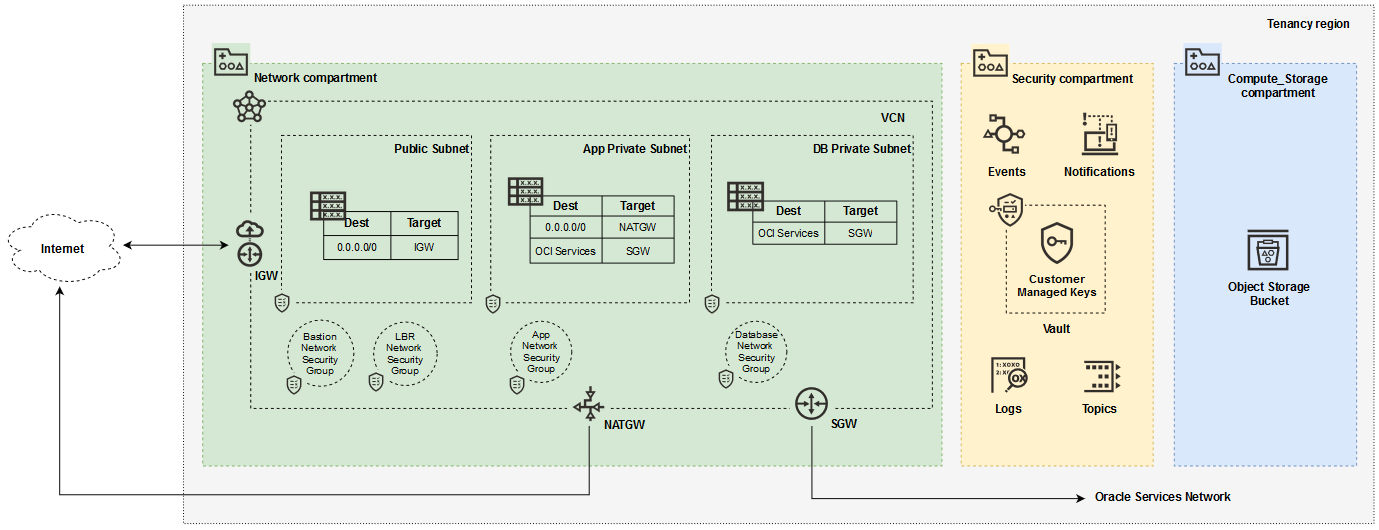
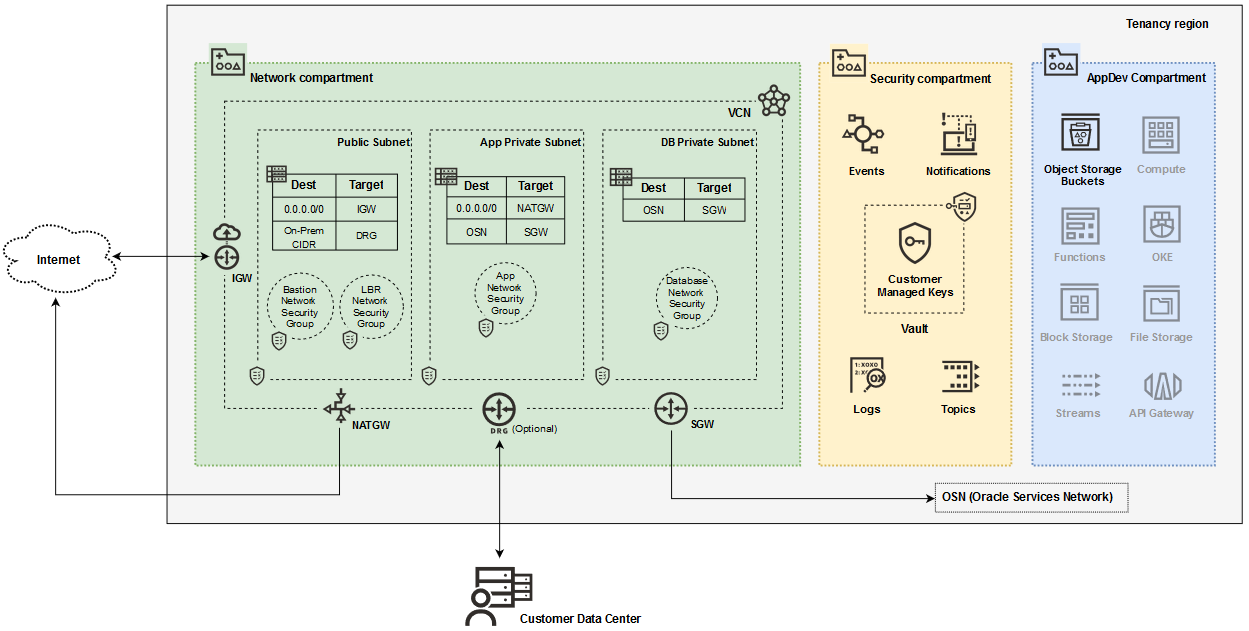
Updated README and arch diagram

diff --git a/README.md b/README.md
@@ -13,18 +13,17 @@ The Landing Zone template deploys a standard three-tier web architecture using a
  ## Architecture 
  The Landing Zone template creates a three-tier web architecture in a single VCN. The three tiers are divided into:
  
- - One (1) Public Subnet (for load balancers and the OCI bastion host service)
+ - One (1) Public Subnet (for load balancers and bastion servers)
  - Two (2) Private Subnets (one for the application tier/servers and one for the database tier)
  
- The Landing Zone template also creates five (5) compartments in the tenancy:
+ The Landing Zone template also creates four (4) compartments in the tenancy:
  
  - A network compartment: A compartment for all networking resources.
  - A security compartment: A compartment for all logging, key management, and notifications resources and services. 
- - A compute and storage compartment: A compartment for all compute and storage (including object storage) resources
+ - An application development compartment: A compartment for application development related services, including compute, storage, functions, streams, Kubernetes and API Gateway. 
  - A database compartment: A compartment for a database resources and services. 
- - An application development compartment: A compartment for application services, such as functions and API Gateway. 
 
-The network diagram below does not show the database and application development compartments, because no resources are initially provisioned into these compartments. 
+The network diagram below does not show the database compartment, because no resources are initially provisioned into that compartment. 
 
 ![Architecture](images/Architecture.png)
 
@@ -113,15 +112,12 @@ With variable values provided, execute:
 	terraform apply plan.out
 
 ## How to Execute the Code Using OCI Resource Manager
-OCI Resource Manager (ORM) has slightly different requirements than Terraform CLI. First and foremost, there is no need to provide tenancy connection and user authentication input variables for the OCI provider, as Resource Manager, being an OCI service, uses the service connection information itself.
-The only required input variable for the OCI provider is the **region**. Fortunately, the provided Terraform code, by not having defaults to tenancy_ocid, user_ocid, fingerprint, private_key_path and private_key_password is already adequate and no changes are required.
-
 There are a few different ways of running Terraform code in ORM. Here we describe two of them: creating an ORM stack by uploading a folder to ORM or creating an ORM stack by integrating with GitLab. A stack is the ORM term to refer to a Terraform configuration.
 
 For OCI Resource Manager details, please see https://docs.cloud.oracle.com/en-us/iaas/Content/ResourceManager/Concepts/resourcemanager.htm.
 
 ### Stack from Folder
-Create a folder in your local computer (name it say 'cis-oci') and paste there the config and modules folders from this repository. 
+Create a folder in your local computer (name it say 'cis-oci') and paste there the config and modules folders from this project. 
 
 Using OCI Console, navigate to Resource Manager service page and create a stack based on a folder. In the **Create Stack** page:
 1. Select **My Configuration** option as the origin of the Terraform configuration.
@@ -141,15 +137,13 @@ Once the stack is created, navigate to the stack page and use the **Terraform Ac
 ![Run Stack](images/RunStack.png)
 
 ### Stack from GitLab
-First make sure to create a GitLab project out of this repository. 
+**Note:** ORM requires the GitLab instance accessible over the Internet.
 
-Using OCI Console, navigate to Resource Manager service page and create a connection to your GitLab.
+Using OCI Console, navigate to Resource Manager service page and create a connection to your GitLab instance.
 
 In the **Configuration Source Providers** page, provide the required connection details to your GitLab, including the **GitLab URL** and your GitLab **Personal Access Token**. 
 
 ![GitLab Connection](images/GitLabConnection.png)
-
-**Note:** the GitLab URL must be accessible over the Internet.
 
 Next, create a stack based on a source code control system. Using OCI Console, in the **Create Stack** page:
 1. Select **Source Code Control System** option as the origin of the Terraform configuration.
